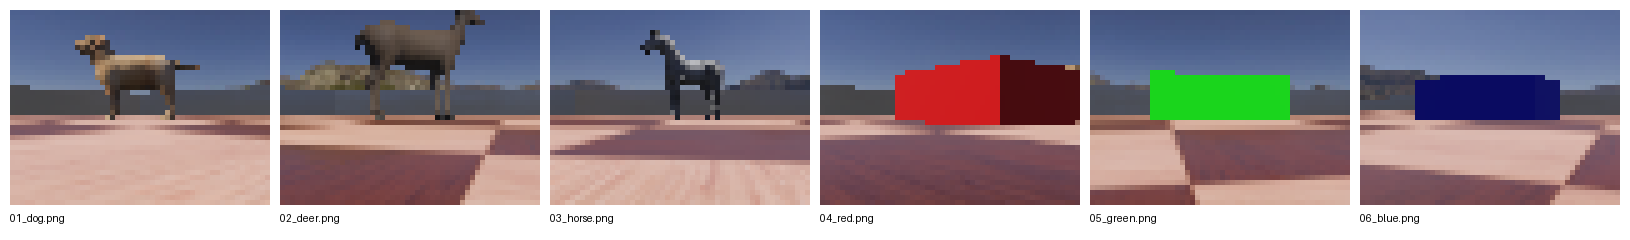
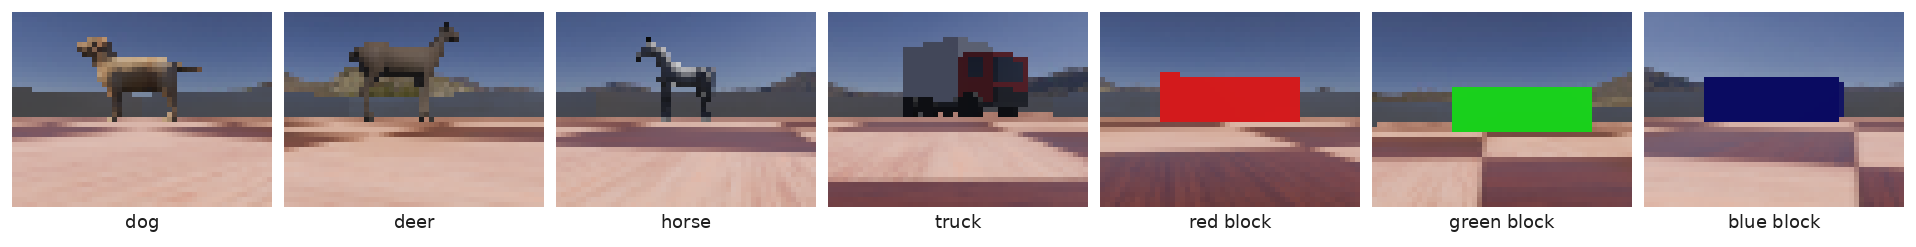
Update camera captures and test images with the truck and new dog and horse images

diff --git a/images/test_images/README.md b/images/test_images/README.md
@@ -7,6 +7,7 @@
 | `bird.jpg` | bird | My own photo |
 | `webots_dog.png` | dog | E-puck camera image (52 × 39 px) from `worlds/Assignment_3.wbt` |
 | `webots_deer.png` | deer | E-puck camera image (52 × 39 px) from `worlds/Assignment_3.wbt` |
-| `webots_horse.png` | horse | E-puck camera image (52 × 39 px) from `worlds/Assignment_3.wbt` |
+| `webots_horse.png` | horse | Webots camera image (160 × 120 px) of the horse in `worlds/Assignment_3.wbt` |
+| `webots_truck.png` | truck | E-puck camera image (52 × 39 px) from `worlds/Assignment_3.wbt` |
 
 The same images are embedded in `notebooks/Assignment_3_CNN.ipynb`, so the notebook runs without downloading them.
